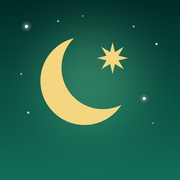
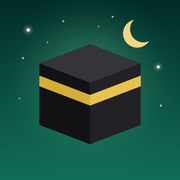
Add files via upload

diff --git a/js/core.js b/js/core.js
@@ -1,10 +1,10 @@
 /* Nuraya – Kern: Zustand, Hilfsfunktionen, Navigation, Bearbeitungsmodus */
 'use strict';
-const APP = { name: 'Nuraya', version: '1.8.2', date: '2026-11-12' };
+const APP = { name: 'Nuraya', version: '1.8.3', date: '2026-11-12' };
 
 /* ---------------- Zustand ---------------- */
 const DEFAULTS = {
-  name: 'Kerem', lang: 'de', theme: 'gruen', appIcon: 'gruen', beads: 'onyx', compass: 'kalli', tasbihBg: 'black',
+  name: 'Kerem', lang: 'de', theme: 'gruen', appIcon: 'kaaba_gruen', beads: 'onyx', compass: 'kalli', tasbihBg: 'black',
   loc: { name: 'Aachen', cc: 'DE', lat: 50.7753, lon: 6.0839, tz: 'Europe/Berlin' }, places: [], trips: [], autoLoc: false,
   remind: true, since: null, dismissed: {},
   method: 'diyanet_eu', asr: 'standard', pnames: 'tr', adj: { fajr: 0, sunrise: 0, dhuhr: 0, asr: 0, maghrib: 0, isha: 0 },
@@ -280,9 +280,9 @@ function applyTheme() {
   $('meta[name="theme-color"]').setAttribute('content', c || '#002b27');
   applyIcon();
 }
-const APP_ICONS = ['gruen', 'kaaba_gruen', 'moschee_gruen'];
+const APP_ICONS = ['kaaba_gruen', 'gruen', 'moschee_gruen'];
 function applyIcon() {
-  const k = APP_ICONS.includes(S.appIcon) ? S.appIcon : 'gruen';
+  const k = APP_ICONS.includes(S.appIcon) ? S.appIcon : 'kaaba_gruen';
   $('link[rel="apple-touch-icon"]').href = `icons/alt/${k}-180.png`;
   $('link[rel="icon"]').href = `icons/alt/${k}-180.png`;
   $$('img.logo, img.about-icon').forEach(i => i.src = `icons/alt/${k}-512.png`);
@@ -290,7 +290,9 @@ function applyIcon() {
 
 /* ---------------- Start ---------------- */
 function boot() {
-  loadState(); applyTheme();
+  loadState();
+  if (!S.iconV2) { if (S.appIcon === 'gruen') S.appIcon = 'kaaba_gruen'; S.iconV2 = true; save(); } // Kaaba ist neuer Standard
+  applyTheme();
   $('#tabbar').innerHTML = [['start', 'moonstar'], ['prayer', 'prayer'], ['quran', 'book'], ['calendar', 'cal']]
     .map(([k, i]) => `<button data-tab="${k}">${icon(i)}<span></span></button>`).join('');
   $('#tabbar').onclick = e => { const b = e.target.closest('button'); if (b) setTab(b.dataset.tab); };

diff --git a/js/settings.js b/js/settings.js
@@ -114,7 +114,7 @@ function settingsHtml() {
   </div></div>
 
   <div class="set-sec"><h4>${t('sAbout')}</h4><div class="set-box"><div class="about">
-    <img class="about-icon" src="icons/alt/${S.appIcon || 'gruen'}-512.png" width="72" height="72" style="border-radius:18px;box-shadow:var(--shadow)" alt="">
+    <img class="about-icon" src="icons/alt/${S.appIcon || 'kaaba_gruen'}-512.png" width="72" height="72" style="border-radius:18px;box-shadow:var(--shadow)" alt="">
     <div style="font-size:22px;font-weight:800;margin-top:10px">${APP.name}</div>
     <div class="muted small">${t('version')} ${APP.version} · ${fmtDate(fromKey(APP.date), { day: 'numeric', month: 'long', year: 'numeric' })}</div>
     <p class="heart">${t('madeWith')}</p>

diff --git a/sw.js b/sw.js
@@ -1,5 +1,5 @@
 /* Nuraya – Service Worker: alles offline verfügbar */
-const VERSION = 'nur-v1.8.2';
+const VERSION = 'nur-v1.8.3';
 const CORE = [
   './', 'index.html', 'manifest.webmanifest', 'css/app.css',
   'js/i18n.js', 'js/cities.js', 'js/core.js', 'js/calendar.js', 'js/prayer.js', 'js/tasbih.js', 'js/quran.js', 'js/names.js', 'js/zakat.js', 'js/tajtag.js', 'js/tajweed.js', 'js/settings.js',
